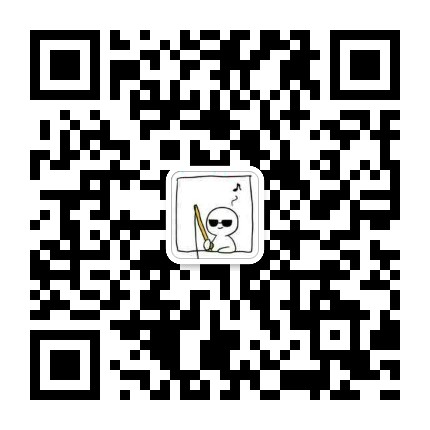
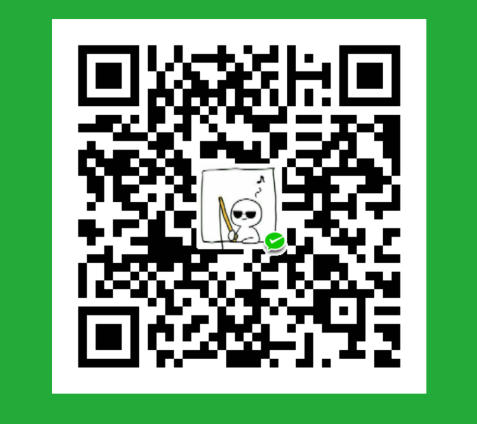
Site updated: 2020-05-25 11:13:20

diff --git a/2020/05/23/hello-world/index.html b/2020/05/23/hello-world/index.html
@@ -107,6 +107,10 @@
 				
 					<a class="cnblog" href="#" title="cnblog" target="_blank"><i class="icon-cnblog"></i></a>
 				
+					<a class="qq" href="/Mr-lee-MQ.hithub.io/img/2285051311.jpg" title="QQ" target="_blank"><i class="icon-qq"></i></a>
+				
+					<a class="weixin" href="/Mr-lee-MQ.hithub.io/img/weixin_.png" title="wechat" target="_blank"><i class="icon-weixin"></i></a>
+				
 			</div>
 		
 		</nav>
@@ -159,6 +163,10 @@
 						<a class="jianshu" target="_blank" href="#" title="jianshu"><i class="icon-jianshu"></i></a>
 			        
 						<a class="cnblog" target="_blank" href="#" title="cnblog"><i class="icon-cnblog"></i></a>
+			        
+						<a class="qq" target="_blank" href="/Mr-lee-MQ.hithub.io/img/2285051311.jpg" title="QQ"><i class="icon-qq"></i></a>
+			        
+						<a class="weixin" target="_blank" href="/Mr-lee-MQ.hithub.io/img/weixin_.png" title="wechat"><i class="icon-weixin"></i></a>
 			        
 				</div>
 			</nav>
@@ -266,14 +274,9 @@
           <span class="tooltip-content">
             <span class="tooltip-text">
               <span class="tooltip-inner">
-                <p class="reward-p"><i class="icon icon-quo-left"></i>谢谢你请我吃糖果<i
+                <p class="reward-p"><i class="icon icon-quo-left"></i>谢谢你请我吃糖<i
                     class="icon icon-quo-right"></i></p>
                 <div class="reward-box">
-                  
-                  <div class="reward-box-item">
-                    <img class="reward-img" src="/Mr-lee-MQ.hithub.io/img/alipay.jpg">
-                    <span class="reward-type">支付宝</span>
-                  </div>
                   
                   
                   <div class="reward-box-item">

diff --git a/2020/05/24/第一篇博客/index.html b/2020/05/24/第一篇博客/index.html
@@ -108,6 +108,10 @@
 				
 					<a class="cnblog" href="#" title="cnblog" target="_blank"><i class="icon-cnblog"></i></a>
 				
+					<a class="qq" href="/Mr-lee-MQ.hithub.io/img/2285051311.jpg" title="QQ" target="_blank"><i class="icon-qq"></i></a>
+				
+					<a class="weixin" href="/Mr-lee-MQ.hithub.io/img/weixin_.png" title="wechat" target="_blank"><i class="icon-weixin"></i></a>
+				
 			</div>
 		
 		</nav>
@@ -160,6 +164,10 @@
 						<a class="jianshu" target="_blank" href="#" title="jianshu"><i class="icon-jianshu"></i></a>
 			        
 						<a class="cnblog" target="_blank" href="#" title="cnblog"><i class="icon-cnblog"></i></a>
+			        
+						<a class="qq" target="_blank" href="/Mr-lee-MQ.hithub.io/img/2285051311.jpg" title="QQ"><i class="icon-qq"></i></a>
+			        
+						<a class="weixin" target="_blank" href="/Mr-lee-MQ.hithub.io/img/weixin_.png" title="wechat"><i class="icon-weixin"></i></a>
 			        
 				</div>
 			</nav>
@@ -261,14 +269,9 @@
           <span class="tooltip-content">
             <span class="tooltip-text">
               <span class="tooltip-inner">
-                <p class="reward-p"><i class="icon icon-quo-left"></i>谢谢你请我吃糖果<i
+                <p class="reward-p"><i class="icon icon-quo-left"></i>谢谢你请我吃糖<i
                     class="icon icon-quo-right"></i></p>
                 <div class="reward-box">
-                  
-                  <div class="reward-box-item">
-                    <img class="reward-img" src="/Mr-lee-MQ.hithub.io/img/alipay.jpg">
-                    <span class="reward-type">支付宝</span>
-                  </div>
                   
                   
                   <div class="reward-box-item">

diff --git a/categories/index.html b/categories/index.html
@@ -105,6 +105,10 @@
 				
 					<a class="cnblog" href="#" title="cnblog" target="_blank"><i class="icon-cnblog"></i></a>
 				
+					<a class="qq" href="/Mr-lee-MQ.hithub.io/img/2285051311.jpg" title="QQ" target="_blank"><i class="icon-qq"></i></a>
+				
+					<a class="weixin" href="/Mr-lee-MQ.hithub.io/img/weixin_.png" title="wechat" target="_blank"><i class="icon-weixin"></i></a>
+				
 			</div>
 		
 		</nav>
@@ -157,6 +161,10 @@
 						<a class="jianshu" target="_blank" href="#" title="jianshu"><i class="icon-jianshu"></i></a>
 			        
 						<a class="cnblog" target="_blank" href="#" title="cnblog"><i class="icon-cnblog"></i></a>
+			        
+						<a class="qq" target="_blank" href="/Mr-lee-MQ.hithub.io/img/2285051311.jpg" title="QQ"><i class="icon-qq"></i></a>
+			        
+						<a class="weixin" target="_blank" href="/Mr-lee-MQ.hithub.io/img/weixin_.png" title="wechat"><i class="icon-weixin"></i></a>
 			        
 				</div>
 			</nav>
@@ -251,14 +259,9 @@
           <span class="tooltip-content">
             <span class="tooltip-text">
               <span class="tooltip-inner">
-                <p class="reward-p"><i class="icon icon-quo-left"></i>谢谢你请我吃糖果<i
+                <p class="reward-p"><i class="icon icon-quo-left"></i>谢谢你请我吃糖<i
                     class="icon icon-quo-right"></i></p>
                 <div class="reward-box">
-                  
-                  <div class="reward-box-item">
-                    <img class="reward-img" src="/Mr-lee-MQ.hithub.io/img/alipay.jpg">
-                    <span class="reward-type">支付宝</span>
-                  </div>
                   
                   
                   <div class="reward-box-item">

diff --git a/tags/index.html b/tags/index.html
@@ -105,6 +105,10 @@
 				
 					<a class="cnblog" href="#" title="cnblog" target="_blank"><i class="icon-cnblog"></i></a>
 				
+					<a class="qq" href="/Mr-lee-MQ.hithub.io/img/2285051311.jpg" title="QQ" target="_blank"><i class="icon-qq"></i></a>
+				
+					<a class="weixin" href="/Mr-lee-MQ.hithub.io/img/weixin_.png" title="wechat" target="_blank"><i class="icon-weixin"></i></a>
+				
 			</div>
 		
 		</nav>
@@ -157,6 +161,10 @@
 						<a class="jianshu" target="_blank" href="#" title="jianshu"><i class="icon-jianshu"></i></a>
 			        
 						<a class="cnblog" target="_blank" href="#" title="cnblog"><i class="icon-cnblog"></i></a>
+			        
+						<a class="qq" target="_blank" href="/Mr-lee-MQ.hithub.io/img/2285051311.jpg" title="QQ"><i class="icon-qq"></i></a>
+			        
+						<a class="weixin" target="_blank" href="/Mr-lee-MQ.hithub.io/img/weixin_.png" title="wechat"><i class="icon-weixin"></i></a>
 			        
 				</div>
 			</nav>
@@ -251,14 +259,9 @@
           <span class="tooltip-content">
             <span class="tooltip-text">
               <span class="tooltip-inner">
-                <p class="reward-p"><i class="icon icon-quo-left"></i>谢谢你请我吃糖果<i
+                <p class="reward-p"><i class="icon icon-quo-left"></i>谢谢你请我吃糖<i
                     class="icon icon-quo-right"></i></p>
                 <div class="reward-box">
-                  
-                  <div class="reward-box-item">
-                    <img class="reward-img" src="/Mr-lee-MQ.hithub.io/img/alipay.jpg">
-                    <span class="reward-type">支付宝</span>
-                  </div>
                   
                   
                   <div class="reward-box-item">

diff --git a/archives/2020/05/index.html b/archives/2020/05/index.html
@@ -103,6 +103,10 @@
 				
 					<a class="cnblog" href="#" title="cnblog" target="_blank"><i class="icon-cnblog"></i></a>
 				
+					<a class="qq" href="/Mr-lee-MQ.hithub.io/img/2285051311.jpg" title="QQ" target="_blank"><i class="icon-qq"></i></a>
+				
+					<a class="weixin" href="/Mr-lee-MQ.hithub.io/img/weixin_.png" title="wechat" target="_blank"><i class="icon-weixin"></i></a>
+				
 			</div>
 		
 		</nav>
@@ -155,6 +159,10 @@
 						<a class="jianshu" target="_blank" href="#" title="jianshu"><i class="icon-jianshu"></i></a>
 			        
 						<a class="cnblog" target="_blank" href="#" title="cnblog"><i class="icon-cnblog"></i></a>
+			        
+						<a class="qq" target="_blank" href="/Mr-lee-MQ.hithub.io/img/2285051311.jpg" title="QQ"><i class="icon-qq"></i></a>
+			        
+						<a class="weixin" target="_blank" href="/Mr-lee-MQ.hithub.io/img/weixin_.png" title="wechat"><i class="icon-weixin"></i></a>
 			        
 				</div>
 			</nav>

diff --git a/archives/2020/index.html b/archives/2020/index.html
@@ -103,6 +103,10 @@
 				
 					<a class="cnblog" href="#" title="cnblog" target="_blank"><i class="icon-cnblog"></i></a>
 				
+					<a class="qq" href="/Mr-lee-MQ.hithub.io/img/2285051311.jpg" title="QQ" target="_blank"><i class="icon-qq"></i></a>
+				
+					<a class="weixin" href="/Mr-lee-MQ.hithub.io/img/weixin_.png" title="wechat" target="_blank"><i class="icon-weixin"></i></a>
+				
 			</div>
 		
 		</nav>
@@ -155,6 +159,10 @@
 						<a class="jianshu" target="_blank" href="#" title="jianshu"><i class="icon-jianshu"></i></a>
 			        
 						<a class="cnblog" target="_blank" href="#" title="cnblog"><i class="icon-cnblog"></i></a>
+			        
+						<a class="qq" target="_blank" href="/Mr-lee-MQ.hithub.io/img/2285051311.jpg" title="QQ"><i class="icon-qq"></i></a>
+			        
+						<a class="weixin" target="_blank" href="/Mr-lee-MQ.hithub.io/img/weixin_.png" title="wechat"><i class="icon-weixin"></i></a>
 			        
 				</div>
 			</nav>

diff --git a/archives/index.html b/archives/index.html
@@ -103,6 +103,10 @@
 				
 					<a class="cnblog" href="#" title="cnblog" target="_blank"><i class="icon-cnblog"></i></a>
 				
+					<a class="qq" href="/Mr-lee-MQ.hithub.io/img/2285051311.jpg" title="QQ" target="_blank"><i class="icon-qq"></i></a>
+				
+					<a class="weixin" href="/Mr-lee-MQ.hithub.io/img/weixin_.png" title="wechat" target="_blank"><i class="icon-weixin"></i></a>
+				
 			</div>
 		
 		</nav>
@@ -155,6 +159,10 @@
 						<a class="jianshu" target="_blank" href="#" title="jianshu"><i class="icon-jianshu"></i></a>
 			        
 						<a class="cnblog" target="_blank" href="#" title="cnblog"><i class="icon-cnblog"></i></a>
+			        
+						<a class="qq" target="_blank" href="/Mr-lee-MQ.hithub.io/img/2285051311.jpg" title="QQ"><i class="icon-qq"></i></a>
+			        
+						<a class="weixin" target="_blank" href="/Mr-lee-MQ.hithub.io/img/weixin_.png" title="wechat"><i class="icon-weixin"></i></a>
 			        
 				</div>
 			</nav>

diff --git a/categories/Hexo/index.html b/categories/Hexo/index.html
@@ -103,6 +103,10 @@
 				
 					<a class="cnblog" href="#" title="cnblog" target="_blank"><i class="icon-cnblog"></i></a>
 				
+					<a class="qq" href="/Mr-lee-MQ.hithub.io/img/2285051311.jpg" title="QQ" target="_blank"><i class="icon-qq"></i></a>
+				
+					<a class="weixin" href="/Mr-lee-MQ.hithub.io/img/weixin_.png" title="wechat" target="_blank"><i class="icon-weixin"></i></a>
+				
 			</div>
 		
 		</nav>
@@ -155,6 +159,10 @@
 						<a class="jianshu" target="_blank" href="#" title="jianshu"><i class="icon-jianshu"></i></a>
 			        
 						<a class="cnblog" target="_blank" href="#" title="cnblog"><i class="icon-cnblog"></i></a>
+			        
+						<a class="qq" target="_blank" href="/Mr-lee-MQ.hithub.io/img/2285051311.jpg" title="QQ"><i class="icon-qq"></i></a>
+			        
+						<a class="weixin" target="_blank" href="/Mr-lee-MQ.hithub.io/img/weixin_.png" title="wechat"><i class="icon-weixin"></i></a>
 			        
 				</div>
 			</nav>

diff --git a/index.html b/index.html
@@ -107,6 +107,10 @@
 				
 					<a class="cnblog" href="#" title="cnblog" target="_blank"><i class="icon-cnblog"></i></a>
 				
+					<a class="qq" href="/Mr-lee-MQ.hithub.io/img/2285051311.jpg" title="QQ" target="_blank"><i class="icon-qq"></i></a>
+				
+					<a class="weixin" href="/Mr-lee-MQ.hithub.io/img/weixin_.png" title="wechat" target="_blank"><i class="icon-weixin"></i></a>
+				
 			</div>
 		
 		</nav>
@@ -159,6 +163,10 @@
 						<a class="jianshu" target="_blank" href="#" title="jianshu"><i class="icon-jianshu"></i></a>
 			        
 						<a class="cnblog" target="_blank" href="#" title="cnblog"><i class="icon-cnblog"></i></a>
+			        
+						<a class="qq" target="_blank" href="/Mr-lee-MQ.hithub.io/img/2285051311.jpg" title="QQ"><i class="icon-qq"></i></a>
+			        
+						<a class="weixin" target="_blank" href="/Mr-lee-MQ.hithub.io/img/weixin_.png" title="wechat"><i class="icon-weixin"></i></a>
 			        
 				</div>
 			</nav>

diff --git a/tags/Hexo/index.html b/tags/Hexo/index.html
@@ -103,6 +103,10 @@
 				
 					<a class="cnblog" href="#" title="cnblog" target="_blank"><i class="icon-cnblog"></i></a>
 				
+					<a class="qq" href="/Mr-lee-MQ.hithub.io/img/2285051311.jpg" title="QQ" target="_blank"><i class="icon-qq"></i></a>
+				
+					<a class="weixin" href="/Mr-lee-MQ.hithub.io/img/weixin_.png" title="wechat" target="_blank"><i class="icon-weixin"></i></a>
+				
 			</div>
 		
 		</nav>
@@ -155,6 +159,10 @@
 						<a class="jianshu" target="_blank" href="#" title="jianshu"><i class="icon-jianshu"></i></a>
 			        
 						<a class="cnblog" target="_blank" href="#" title="cnblog"><i class="icon-cnblog"></i></a>
+			        
+						<a class="qq" target="_blank" href="/Mr-lee-MQ.hithub.io/img/2285051311.jpg" title="QQ"><i class="icon-qq"></i></a>
+			        
+						<a class="weixin" target="_blank" href="/Mr-lee-MQ.hithub.io/img/weixin_.png" title="wechat"><i class="icon-weixin"></i></a>
 			        
 				</div>
 			</nav>
